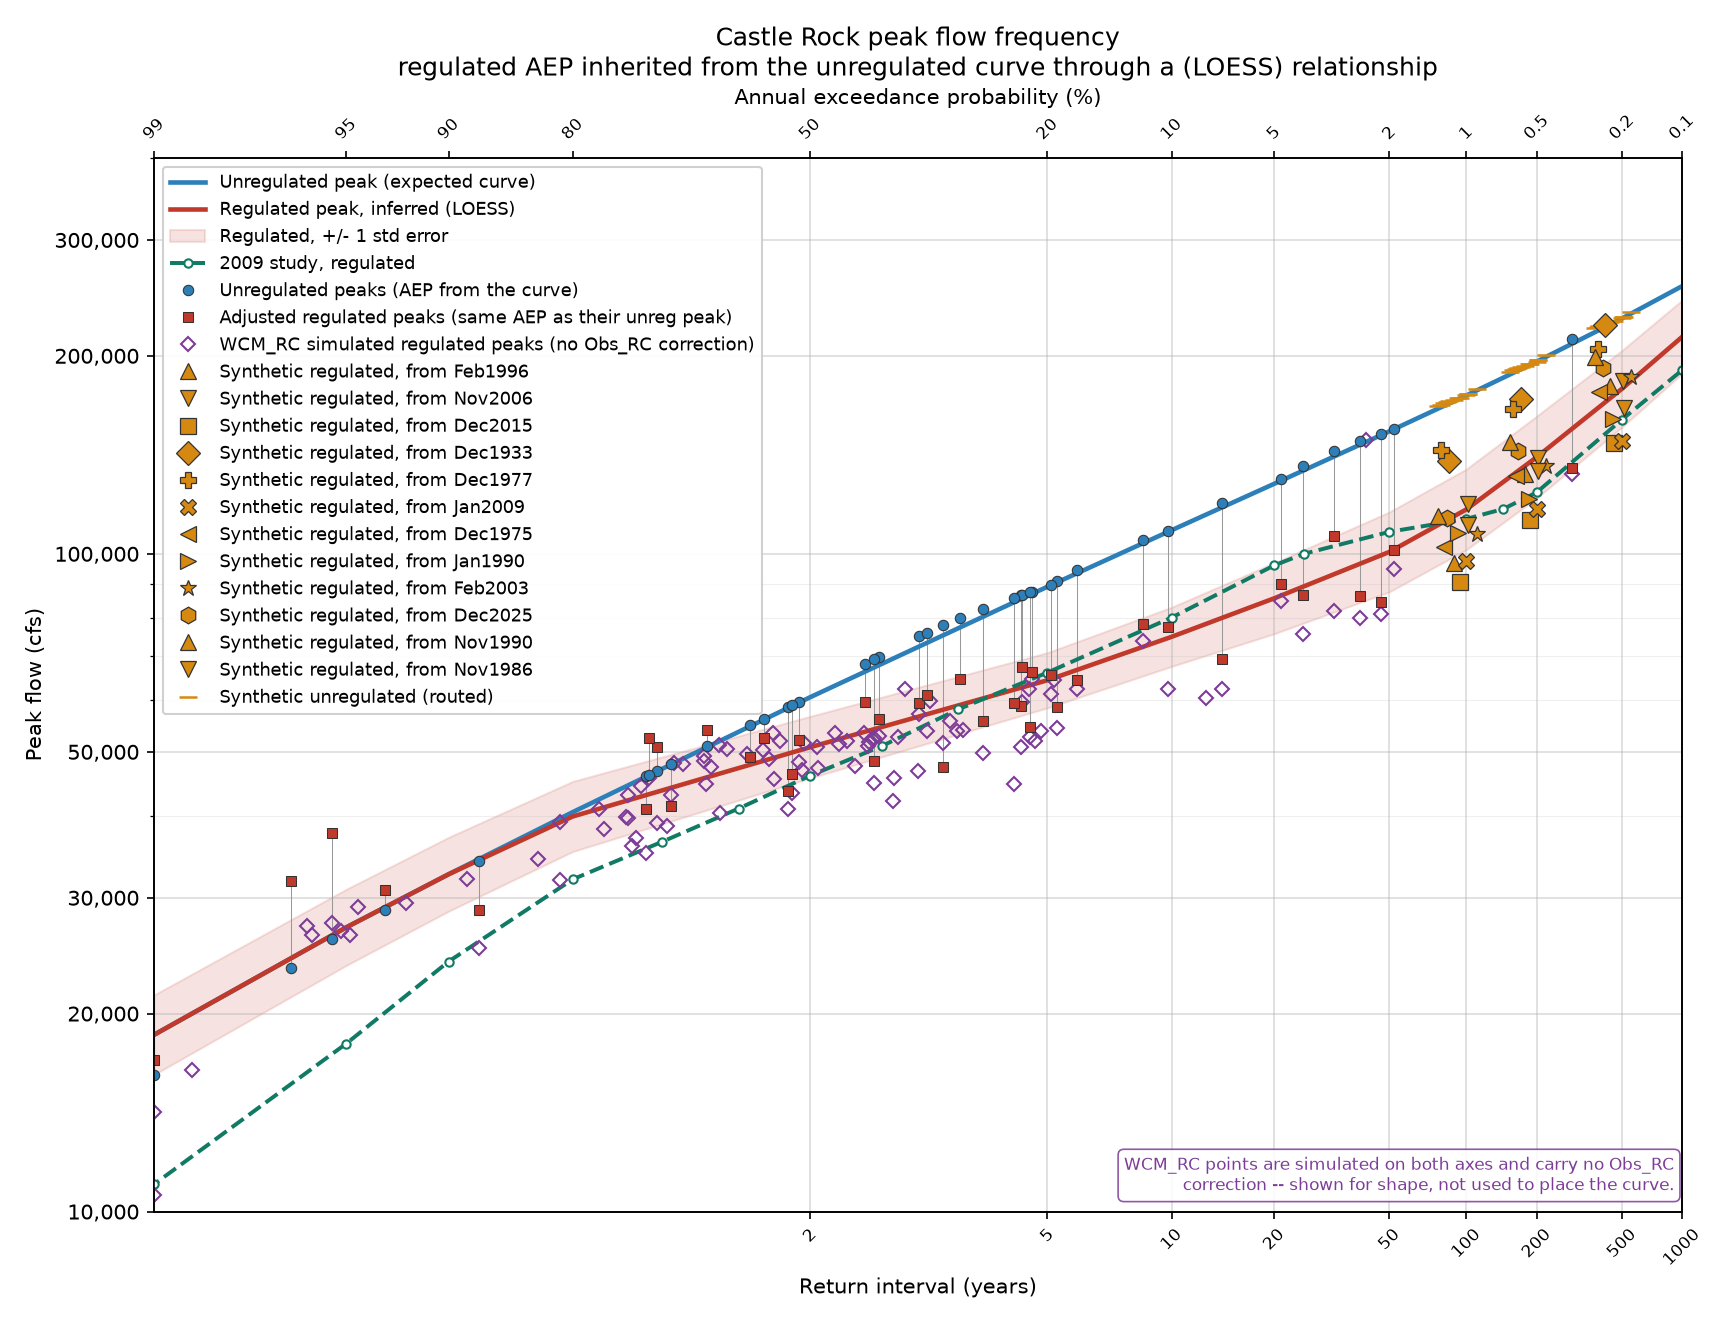
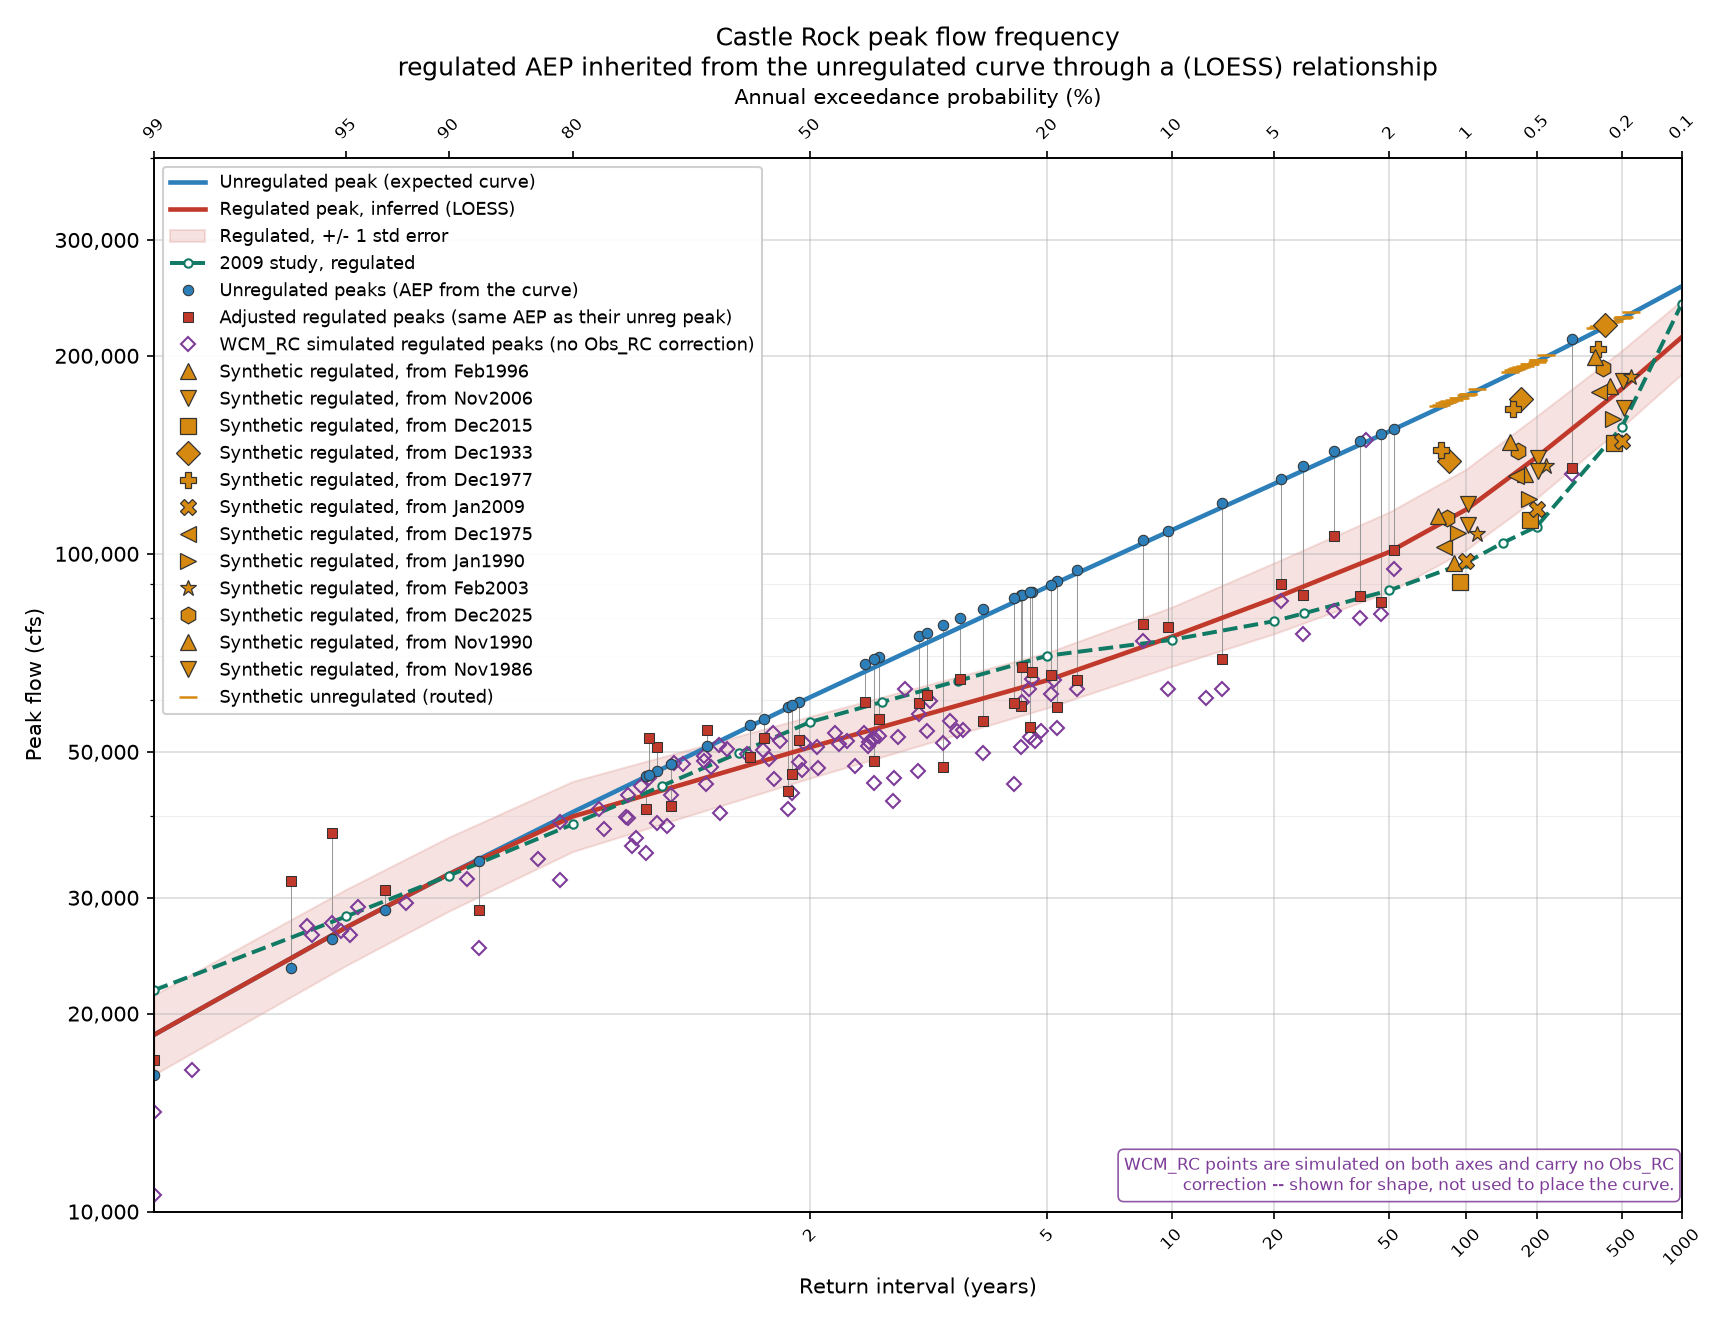
Keep Table B-5 as the 2009 curve, transfer the FDA uncertainty onto it
Reverses the centre line choice in the previous commit. The hardcoded
CURVE_2009 list is Table B-5 of the 2009 Restudy, transcribed exactly, all 22
ordinates matching the published table to the cfs. It is not a bad
digitization and it does have provenance.

My earlier test was the wrong test. I checked both curves against the OBSERVED
regulated record, which penalises exactly the property an FRM only curve is
built to have. Reversing it settles which curve belongs on this figure.
Ranked, mean absolute error in log10:

                     vs OBSERVED (n=51)    vs ADJUSTED, FRM only (n=41)
  2026 regulated       0.0748  18.8%          0.0593  14.6%
  2009 Table B-5       0.0819  20.8%          0.0462  11.2%
  2009 HEC-FDA         0.0267   6.3%          0.1040  27.1%

Table B-5 tracks the adjusted record, the same FRM only basis this study uses.
The FDA curve tracks the observed record, which still carries the incidental
drafting that the adjustment in 5.2 exists to remove. At the 99 percent AEP
2026 gives 18,564 and Table B-5 gives 21,700, against 11,000 from FDA and
about 12,600 observed. So Table B-5 is the same quantity on the same basis and
is the right comparison. Comparing against the FDA curve would have shown the
operating assumption rather than the difference between two studies.

Table B-5 is published without uncertainty, so CURVE_2009_BAND = "fda_sigma"
reduces the FDA bounds to a sigma per ordinate and applies it to Table B-5,
[…]

diff --git a/CAS_Reg_Unreg/src/#Unreg_Reg_Curve.py b/CAS_Reg_Unreg/src/#Unreg_Reg_Curve.py
@@ -347,28 +347,50 @@ SHOW_POWER_LAW_REFERENCE = False
 # --- 2009 study adopted regulated frequency curve ----------------------------
 # AEP in percent, discharge in cfs. The external check on the upper end.
 # --- the 2009 study curve ----------------------------------------------------
-# "table" is the digitized CURVE_2009 list below, which is what this script has
-# always used. "fda" reads the HEC-FDA export instead, which carries the study's
-# own uncertainty alongside the curve.
+# CURVE_2009 below is Table B-5 of the 2009 Restudy, "Cowlitz River at Castle
+# Rock peak regulated discharge-frequency curve", transcribed exactly. All 22
+# ordinates match the published table to the cfs.
 #
-# The two do NOT agree. See CAS_Reg_Unreg/data/fda_2009/ for the export and the
-# comparison. They match at the 0.05 and 0.01 percent AEPs and diverge in
-# between, by -49% at the 1.01 year and +23% near the 50 year, and 12 of the 21
-# shared ordinates put the digitized value outside the FDA 95 percent band.
-# Whichever is adopted, the uncertainty band can only be drawn around the FDA
-# curve, because it is the FDA curve those bounds belong to.
-CURVE_2009_SOURCE = "fda"
+# The HEC-FDA 2.0.2 Cowlitz study carries a DIFFERENT regulated curve for the
+# same site under "Hydrology 1 (2010)", on the same reporting grid, and it is
+# the one that has uncertainty attached. The two are not interchangeable, and
+# the reason is the operating basis.
+#
+# Ranked against the two regulated records, mean absolute error in log10:
+#
+#                      vs OBSERVED (n=51)    vs ADJUSTED, FRM only (n=41)
+#   2026 regulated        0.0748  18.8%          0.0593  14.6%
+#   2009 Table B-5        0.0819  20.8%          0.0462  11.2%
+#   2009 HEC-FDA          0.0267   6.3%          0.1040  27.1%
+#
+# Table B-5 tracks the ADJUSTED record, which is the FRM only basis this study
+# also uses, and the FDA curve tracks the OBSERVED record, which includes the
+# incidental drafting the adjustment in 5.2 exists to remove. At the 99 percent
+# AEP: 2026 gives 18,564, Table B-5 gives 21,700, FDA gives 11,000 and the
+# observed record gives about 12,600.
+#
+# So Table B-5 is the right comparison for this figure. It is the same quantity
+# on the same basis. Comparing the 2026 FRM only curve against a curve that
+# tracks historical operations would show the operating assumption, not the
+# difference between the two studies.
+CURVE_2009_SOURCE = "table"
 CURVE_2009_FDA_CSV = r"../data/fda_2009/curve_2009_regulated_fda.csv"
 
-# FDA reports its bounds at 2.5 and 97.5 percent, a 95 percent interval. The
-# memo is 90 percent everywhere else, so leaving them native puts two different
-# interval widths on one figure, which is the confusion the DQC review asked to
-# have removed. The bounds are log-symmetric about the curve to within 0.003
-# dex, so rescaling is exact rather than an approximation.
-#   "match_memo"  rescale to UNCERTAINTY_CONF_LEVEL, each side on its own sigma
-#   "native"      draw FDA's 2.5 and 97.5 percent as reported
-#   "off"         no 2009 band
-CURVE_2009_BAND = "match_memo"
+# Table B-5 is published without uncertainty. The FDA function does carry it,
+# at 2.5 and 97.5 percent off an equivalent record length of 90 years, and the
+# two curves are tabulated on the same AEP grid.
+#
+#   "fda_sigma"   TRANSFER the FDA sigma onto whichever curve is drawn, then
+#                 rescale to UNCERTAINTY_CONF_LEVEL. This is the adopted
+#                 option. It is a transfer, not the study's own stated bounds
+#                 on Table B-5, and it is defensible because the width is
+#                 driven by the 90 year record length, which is a property of
+#                 the study rather than of either curve. The bounds are
+#                 log-symmetric about the FDA curve to within 0.003 dex, so
+#                 reducing them to a sigma per ordinate loses nothing.
+#   "native"      only with CURVE_2009_SOURCE = "fda". FDA's own 95 percent.
+#   "off"         no 2009 band.
+CURVE_2009_BAND = "fda_sigma"
 
 CURVE_2009_LABEL = "2009 study, regulated"
 CURVE_2009 = [
@@ -733,48 +755,76 @@ def load_wcm_points(csv_path):
     return table.reset_index(drop=True), dropped.reset_index(drop=True)
 
 
-def curve_2009_frame():
-    """The 2009 adopted regulated curve as AEP (fraction) and cfs.
+def fda_2009_sigma():
+    """Per-ordinate log10 sigma of the 2009 curve, from the HEC-FDA bounds.
 
-    Carries lo/hi columns as well when the source is the HEC-FDA export and a
-    band is asked for. See CURVE_2009_SOURCE.
+    Returns (aep, sigma_lo, sigma_hi) or None. Each side keeps its own sigma so
+    the reported asymmetry survives the transfer.
+    """
+    if not os.path.exists(CURVE_2009_FDA_CSV):
+        return None
+    f = pd.read_csv(CURVE_2009_FDA_CSV, comment="#")
+    z_fda = stats.norm.ppf(0.975)
+    return (f["aep"].values,
+            (np.log10(f["cfs"] / f["lo_2p5"]) / z_fda).values,
+            (np.log10(f["hi_97p5"] / f["cfs"]) / z_fda).values)
+
+
+def curve_2009_frame():
+    """The 2009 regulated curve as AEP (fraction) and cfs, with a band.
+
+    Carries lo/hi columns when a band is asked for. See CURVE_2009_SOURCE for
+    why the default centre line is Table B-5 and the band is transferred.
     """
     if CURVE_2009_SOURCE == "fda":
         if not os.path.exists(CURVE_2009_FDA_CSV):
-            raise SystemExit(
-                "CURVE_2009_SOURCE = 'fda' but %s is missing. Set it to "
-                "'table' to fall back on the digitized curve."
-                % CURVE_2009_FDA_CSV)
-        fda = pd.read_csv(CURVE_2009_FDA_CSV, comment="#")
-        table = pd.DataFrame({"AEP": fda["aep"].values,
-                              "cfs": fda["cfs"].values})
-        table["AEP_pct"] = table["AEP"] * 100.0
-        if CURVE_2009_BAND != "off":
-            lo, hi = fda["lo_2p5"].values, fda["hi_97p5"].values
-            if CURVE_2009_BAND == "native":
-                table["lo"], table["hi"] = lo, hi
-                table.attrs["band_pct"] = 95
-            else:
-                # Each side keeps its own sigma, so the reported asymmetry
-                # survives the rescale instead of being averaged away.
-                z_fda = stats.norm.ppf(0.975)
-                z_ours = stats.norm.ppf(0.5 + UNCERTAINTY_CONF_LEVEL / 2.0)
-                sig_lo = np.log10(table["cfs"] / lo) / z_fda
-                sig_hi = np.log10(hi / table["cfs"]) / z_fda
-                table["lo"] = table["cfs"] * 10.0 ** (-z_ours * sig_lo)
-                table["hi"] = table["cfs"] * 10.0 ** (z_ours * sig_hi)
-                table.attrs["band_pct"] = int(
-                    round(100 * UNCERTAINTY_CONF_LEVEL))
-        print("2009      : %d ordinates from %s%s"
-              % (len(table), os.path.basename(CURVE_2009_FDA_CSV),
-                 "" if CURVE_2009_BAND == "off"
-                 else ", band at %d%%" % table.attrs["band_pct"]))
+            raise SystemExit("CURVE_2009_SOURCE = 'fda' but %s is missing."
+                             % CURVE_2009_FDA_CSV)
+        f = pd.read_csv(CURVE_2009_FDA_CSV, comment="#")
+        table = pd.DataFrame({"AEP": f["aep"].values, "cfs": f["cfs"].values})
+        source = os.path.basename(CURVE_2009_FDA_CSV)
     else:
         table = pd.DataFrame(CURVE_2009, columns=["AEP_pct", "cfs"])
         table["AEP"] = table["AEP_pct"] / 100.0
-        print("2009      : %d ordinates from the digitized CURVE_2009 table, "
-              "no band available" % len(table))
-    return table.sort_values("AEP", ascending=False).reset_index(drop=True)
+        source = "Table B-5 of the 2009 Restudy"
+    table["AEP_pct"] = table["AEP"] * 100.0
+    table = table.sort_values("AEP", ascending=False).reset_index(drop=True)
+
+    band = ""
+    if CURVE_2009_BAND == "native":
+        if CURVE_2009_SOURCE != "fda":
+            raise SystemExit(
+                "CURVE_2009_BAND = 'native' only works with "
+                "CURVE_2009_SOURCE = 'fda'. Use 'fda_sigma' to transfer the "
+                "bounds onto Table B-5.")
+        f = pd.read_csv(CURVE_2009_FDA_CSV, comment="#")
+        g = f.set_index("aep")
+        table["lo"] = g.loc[table["AEP"], "lo_2p5"].values
+        table["hi"] = g.loc[table["AEP"], "hi_97p5"].values
+        table.attrs["band_pct"] = 95
+        band = ", band at FDA's native 95%"
+    elif CURVE_2009_BAND == "fda_sigma":
+        sig = fda_2009_sigma()
+        if sig is None:
+            print("2009      : no %s, band not drawn" % CURVE_2009_FDA_CSV)
+        else:
+            aep_s, s_lo, s_hi = sig
+            # Interpolate in z, the space the curve is drawn in. The two grids
+            # are the same apart from FDA's extra 0.9999 point, so in practice
+            # this is an exact lookup.
+            z_s = stats.norm.ppf(1.0 - aep_s)
+            order = np.argsort(z_s)
+            z_t = stats.norm.ppf(1.0 - table["AEP"].values)
+            lo = np.interp(z_t, z_s[order], s_lo[order])
+            hi = np.interp(z_t, z_s[order], s_hi[order])
+            z_ours = stats.norm.ppf(0.5 + UNCERTAINTY_CONF_LEVEL / 2.0)
+            table["lo"] = table["cfs"] * 10.0 ** (-z_ours * lo)
+            table["hi"] = table["cfs"] * 10.0 ** (z_ours * hi)
+            table.attrs["band_pct"] = int(round(100 * UNCERTAINTY_CONF_LEVEL))
+            band = (", band %d%% from the FDA sigma, %.3f to %.3f dex"
+                    % (table.attrs["band_pct"], lo.min(), hi.max()))
+    print("2009      : %d ordinates from %s%s" % (len(table), source, band))
+    return table
 
 
 def interp_2009(aep, table_2009):
